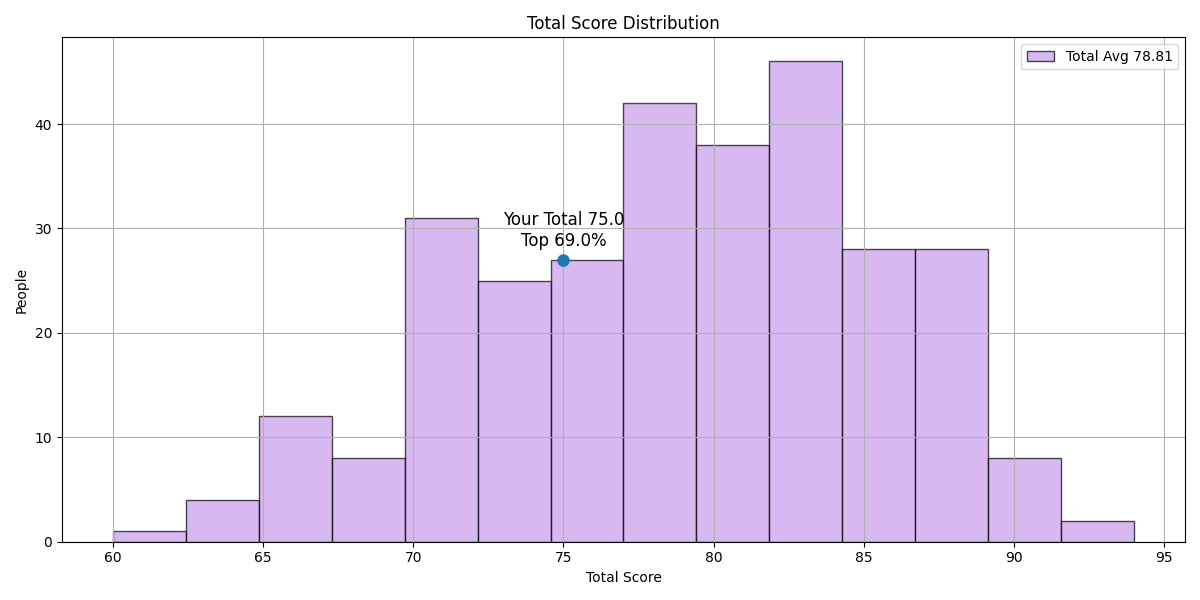
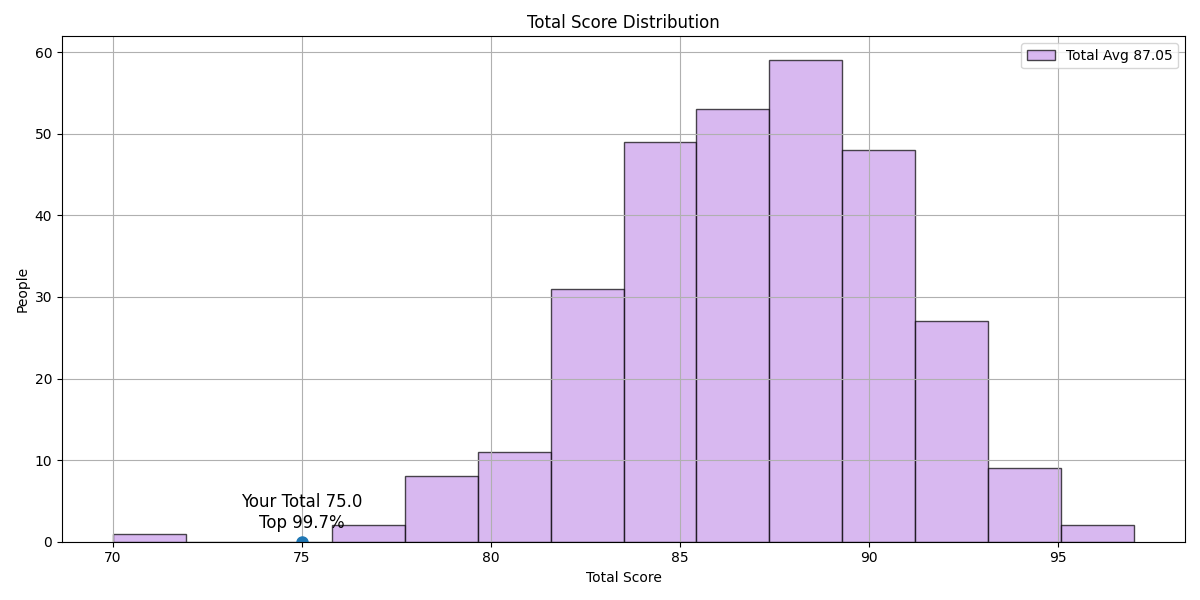
Refactor code structure and remove redundant sections for improved readability and maintainability

diff --git a/character.py b/character.py
@@ -88,7 +88,7 @@ class Character:
         self.mood , self.energy , self.social, self.knowledge = \
             min(100, self.mood + self.last_week_change[0]),\
             min(100, self.energy + self.last_week_change[1]),\
-            max(0, self.social + self.last_week_change[2]),\
+            min(100,max(0, self.social + self.last_week_change[2])),\
             min(100, self.knowledge + self.last_week_change[3])
         #print(f"{self.name} 正在休息 💤😌 體力提升了 {growth:.2f} 點！現在是 {self.energy}/100")
 
@@ -111,7 +111,7 @@ class Character:
 
     def calculate_GPA(self):
         total_score = self.midterm * 0.35 + self.final * 0.35 + (self.knowledge) * 0.3
-        total_score = max(0, int(math.sqrt(total_score) * 20 - 100))
+        total_score = max(0, int(math.sqrt(total_score) * 12 - 20))
         self.total_score = total_score
         gpa = []
         for _ in range(25):
@@ -214,24 +214,16 @@ class Yier(Character):
         
     def gif_choose(self):
         self.animator = CharacterAnimator(self.intro, (400, 400), (300, 300))
-        if self.week_number == 0:
-            return self.animator    
-        
-        #根據選擇撥放不同的動畫
-        option = self.week_data.get("events", {}).get("options", {}) 
-        attribute = option[self.chosen[self.week_number]]["attribute"]
-        print (attribute)
-        
-        if attribute == "study":
-            self.animator = CharacterAnimator(self.study_gif, (400, 400), (300, 300))
+        if self.energy <= 10:
+            self.animator = CharacterAnimator(self.tired, (400, 400), (300, 300))
             
-        elif attribute == "rest":
-            self.animator = CharacterAnimator(self.rest_gif, (400, 400), (300, 300))
+        elif self.mood <= 30:
+            self.animator = CharacterAnimator(self.sad, (400, 400), (300, 300))
             
-        elif attribute == "play_game":
-            self.animator = CharacterAnimator(self.play_game_gif, (400, 400), (300, 300))
+        elif self.mood >= 80:
+            self.animator = CharacterAnimator(self.happy, (400, 400), (300, 300))
             
-        elif attribute == "social":
+        elif self.social >= 90 :
             self.animator = CharacterAnimator(self.social_gif, (400, 400), (300, 300))
             
         return self.animator
@@ -311,7 +303,7 @@ class Huihui(Character):
         self.taketest = setting.GIF_PATHS['HUIHUI_SOSAD_FRAMES']
         self.testing = setting.GIF_PATHS['HUIHUI_RUNNING_FRAMES']
         self.ending = setting.GIF_PATHS['HUIHUI_FLOWER_FRAMES']
-        self.week_number = 15
+        self.week_number = 0
         self.sad = setting.GIF_PATHS['HUIHUI_SAD_FRAMES']
         self.happy = setting.GIF_PATHS['HUIHUI_HEHE_FRAMES']
         self.tired = setting.GIF_PATHS['HUIHUI_SOSAD_FRAMES']

diff --git a/main.py b/main.py
@@ -47,23 +47,15 @@ def select_character(screen):
 
     if selected == "布布 Bubu":
         player = Bubu()
-        scene = MainScene(screen, player)
-        scene.run()
         return player
     elif selected == "一二 Yier":
         player = Yier()
-        scene = MainScene(screen, player)
-        scene.run()
         return player
     elif selected == "蜜桃 Mitao":
         player = Mitao()
-        scene = MainScene(screen, player)
-        scene.run()
         return player
     elif selected == "灰灰 Huihui":
         player = Huihui()
-        scene = MainScene(screen, player)
-        scene.run()
         return player
     else:
         print("未選擇角色，回到主畫面")
